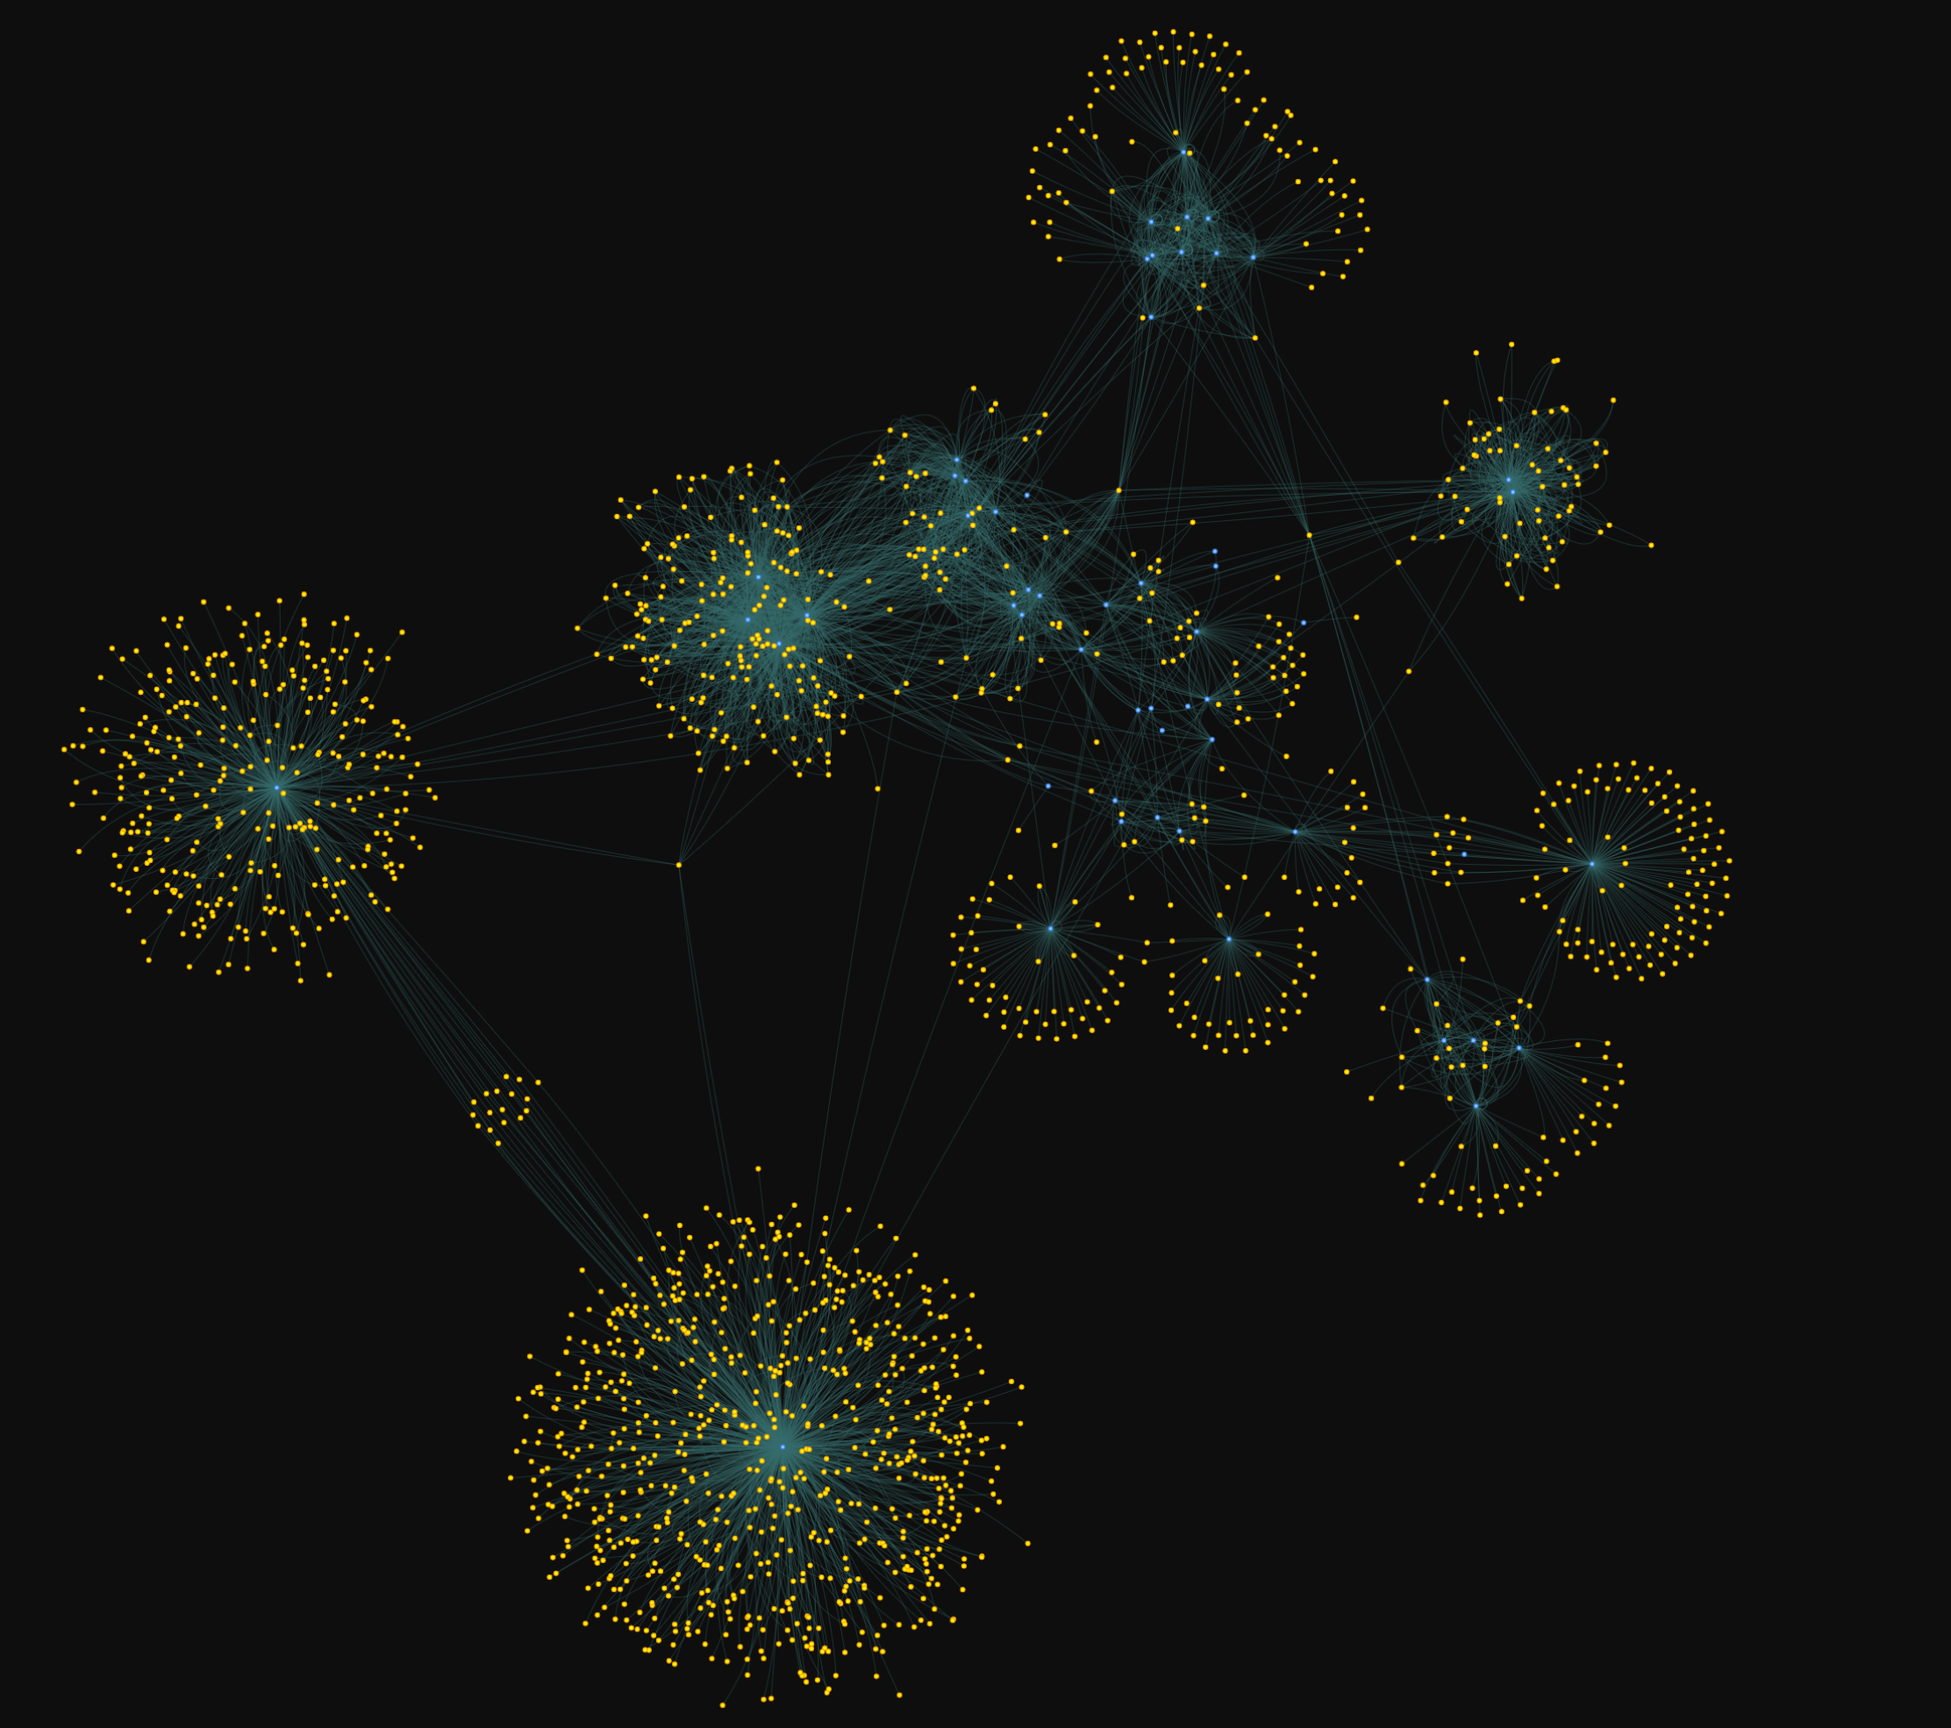
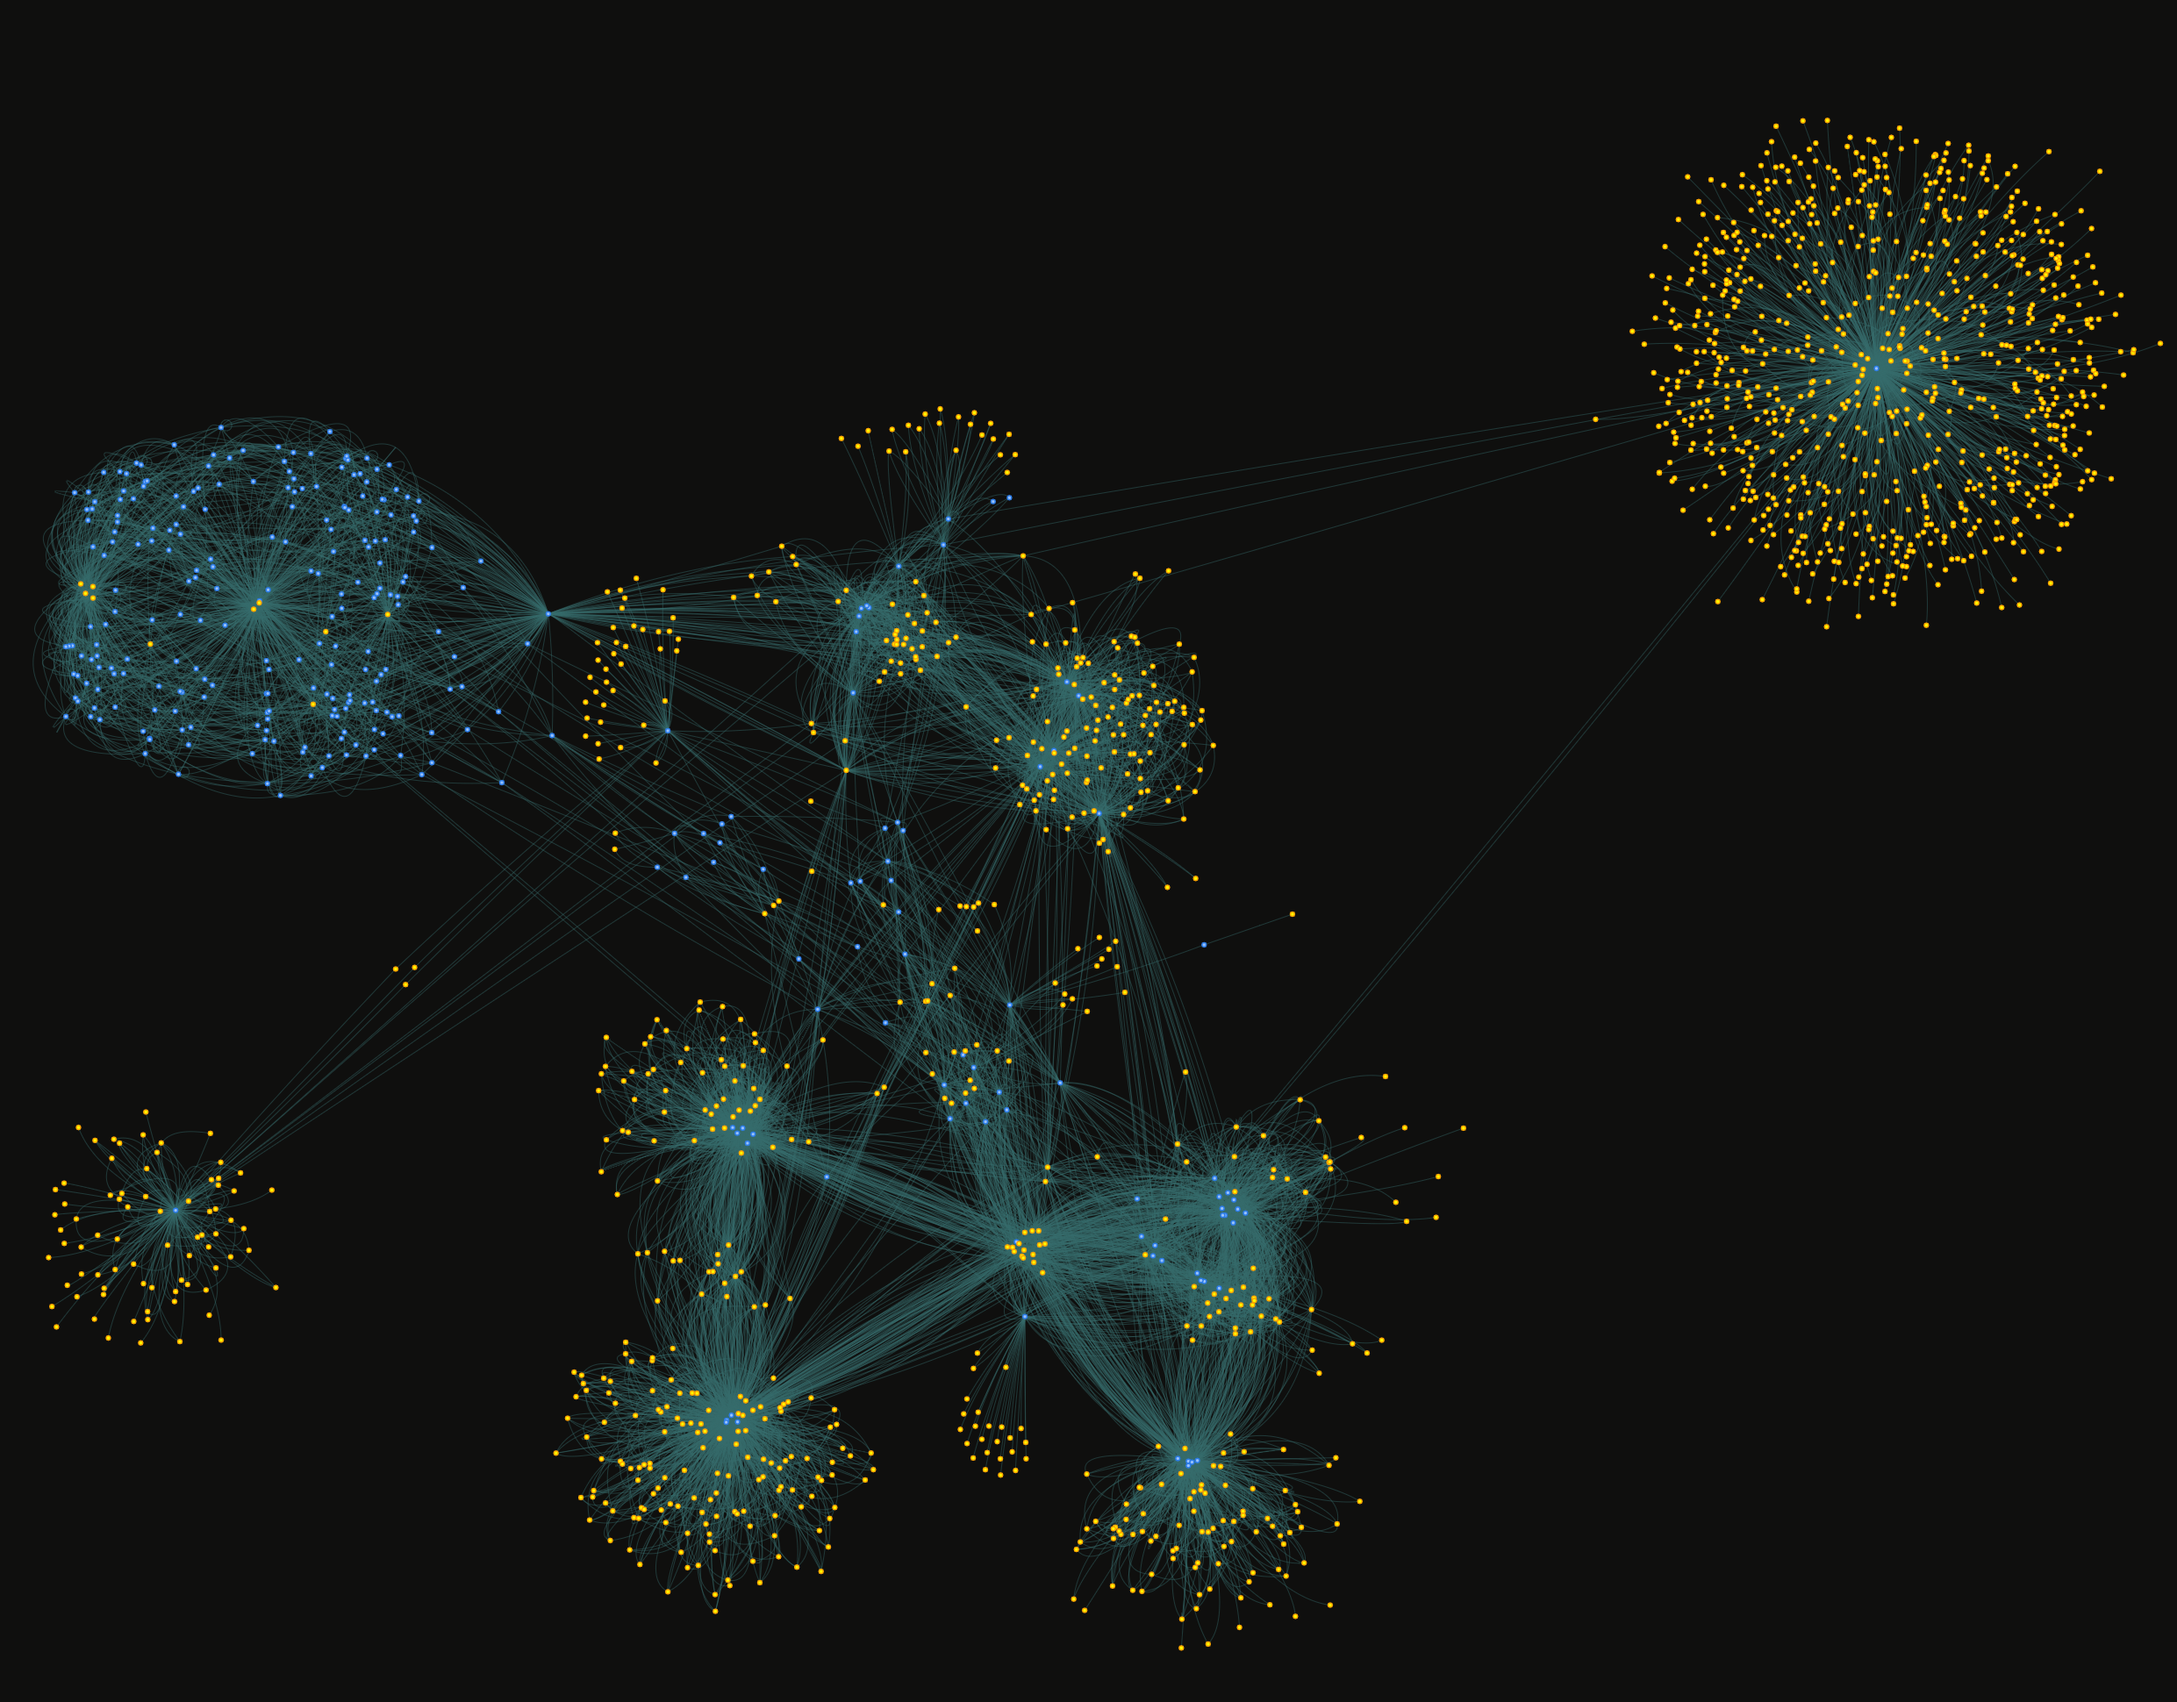
updated style

diff --git a/templates/graph.html b/templates/graph.html
@@ -1,56 +1,167 @@
 <html>
 <script src="https://cdnjs.cloudflare.com/ajax/libs/vis/4.21.0/vis.min.js"></script>
     <link rel="stylesheet" type="text/css" href="https://cdnjs.cloudflare.com/ajax/libs/vis/4.21.0/vis.min.css">
-    <div id="mynetwork" style = "background-color: rgb(39, 39, 39);"></div>
-        <script type="text/javascript">
-            var color = 'gray';
+
+    <style type="text/css">
+
+        #mynetwork {
+            width: 100%;
+            height: 100%;
+            background-color: black;
+            border: 1px solid lightgray;
+            position: relative;
+            float: left;
+        }
+
         
-            var nodes = {{ nodes | safe }} ;
+        #loadingBar {
+            position:absolute;
+            top:0px;
+            left:0px;
+            width: 100%;
+            height: 100%;
+            background-color:rgba(200,200,200,0.8);
+            -webkit-transition: all 0.5s ease;
+            -moz-transition: all 0.5s ease;
+            -ms-transition: all 0.5s ease;
+            -o-transition: all 0.5s ease;
+            transition: all 0.5s ease;
+            opacity:1;
+        }
+
+        #bar {
+            position:absolute;
+            top:0px;
+            left:0px;
+            width:20px;
+            height:20px;
+            margin:auto auto auto auto;
+            border-radius:11px;
+            border:2px solid rgba(30,30,30,0.05);
+            background: rgb(0, 173, 246); /* Old browsers */
+            box-shadow: 2px 0px 4px rgba(0,0,0,0.4);
+        }
+
+        #border {
+            position:absolute;
+            top:10px;
+            left:10px;
+            width:500px;
+            height:23px;
+            margin:auto auto auto auto;
+            box-shadow: 0px 0px 4px rgba(0,0,0,0.2);
+            border-radius:10px;
+        }
+
+        #text {
+            position:absolute;
+            top:8px;
+            left:530px;
+            width:30px;
+            height:50px;
+            margin:auto auto auto auto;
+            font-size:22px;
+            color: #000000;
+        }
+
+        div.outerBorder {
+            position:relative;
+            top:400px;
+            width:600px;
+            height:44px;
+            margin:auto auto auto auto;
+            border:8px solid rgba(0,0,0,0.1);
+            background: rgb(252,252,252); /* Old browsers */
+            background: -moz-linear-gradient(top,  rgba(252,252,252,1) 0%, rgba(237,237,237,1) 100%); /* FF3.6+ */
+            background: -webkit-gradient(linear, left top, left bottom, color-stop(0%,rgba(252,252,252,1)), color-stop(100%,rgba(237,237,237,1))); /* Chrome,Safari4+ */
+            background: -webkit-linear-gradient(top,  rgba(252,252,252,1) 0%,rgba(237,237,237,1) 100%); /* Chrome10+,Safari5.1+ */
+            background: -o-linear-gradient(top,  rgba(252,252,252,1) 0%,rgba(237,237,237,1) 100%); /* Opera 11.10+ */
+            background: -ms-linear-gradient(top,  rgba(252,252,252,1) 0%,rgba(237,237,237,1) 100%); /* IE10+ */
+            background: linear-gradient(to bottom,  rgba(252,252,252,1) 0%,rgba(237,237,237,1) 100%); /* W3C */
+            filter: progid:DXImageTransform.Microsoft.gradient( startColorstr='#fcfcfc', endColorstr='#ededed',GradientType=0 ); /* IE6-9 */
+            border-radius:72px;
+            box-shadow: 0px 0px 10px rgba(0,0,0,0.2);
+        }
+        
+
+        
+
+        
+</style>
+    <div id="mynetwork" style = "background-color: #0f0f0e;"></div>
+    <div id="loadingBar">
+        <div class="outerBorder">
+            <div id="text">0%</div>
+            <div id="border">
+                <div id="bar"></div>
+            </div>
+        </div>
+    </div>
+        <script type="text/javascript">
+            function draw() {
+                var color = 'gray';
             
-            var edges = {{ edges | safe }} ;
-            console.log(nodes, edges);
-            // create a network
-            var container = document.getElementById('mynetwork');
-            var data = {
-                nodes: nodes,
-                edges: edges
-            };
-            var options = {
-                autoResize: true,
-                layout: {
-                    improvedLayout:true,
-                    randomSeed: 10,
-                    
-                },
-                height: '100%',
-                width: '100%',
-                nodes: {
-                    shape: 'dot',
-                    size: 8,
-                    font: {
-                        size: 5,
-                        color: '#ffffff'
+                var nodes = {{ nodes | safe }} ;
+                
+                var edges = {{ edges | safe }} ;
+                // create a network
+                var container = document.getElementById('mynetwork');
+                var data = {
+                    nodes: nodes,
+                    edges: edges
+                };
+                var options = {
+                    autoResize: true,
+                    layout: {
+                        improvedLayout:false,
                     },
-                    borderWidth: 1
-                },
-                edges: {
-                    width: 1,
-                    color: {
-                    color:'#356b6b',
-                    highlight:'#4286f4',
-                    hover: '#41f4f4',
-                    inherit: 'from',
-                    opacity:1.0
+                    height: '100%',
+                    width: '100%',
+                    nodes: {
+                        shape: 'dot',
+                        size: 8,
+                        font: {
+                            size: 5,
+                            color: '#ffffff'
+                        },
+                        borderWidth: 1
                     },
-                },
-                interaction: {
-                    hoverConnectedEdges: true,
-                    tooltipDelay: 200
-                }
-            };
+                    edges: {
+                        width: 1,
+                        color: {
+                        color:'#356b6b',
+                        highlight:'#4286f4',
+                        hover: '#41f4f4',
+                        inherit: 'from',
+                        opacity:1.0
+                        },
+                    },
+                    interaction: {
+                        hoverConnectedEdges: true,
+                        tooltipDelay: 200
+                    }
+                };
             network = new vis.Network(container, data, options);
-            network.on("stabilizationIterationsDone", function () {
+            network.on("stabilizationProgress", function(params) {
+                document.getElementById('loadingBar').removeAttribute("style");
+                var maxWidth = 496;
+                var minWidth = 20;
+                var widthFactor = params.iterations/params.total;
+                var width = Math.max(minWidth,maxWidth * widthFactor);
+
+                document.getElementById('bar').style.width = width + 'px';
+                document.getElementById('text').innerHTML = Math.round(widthFactor*100) + '%';
+            });
+            network.once("stabilizationIterationsDone", function() {
+                document.getElementById('text').innerHTML = '100%';
+                document.getElementById('bar').style.width = '496px';
+                document.getElementById('loadingBar').style.opacity = 0;
+                // really clean the dom element
+                setTimeout(function () {document.getElementById('loadingBar').style.display = 'none';}, 500);
                 network.setOptions( { physics: false } );
             });
+            return network;
+        };
+        draw();
         </script>
 </html>

diff --git a/x.py b/x.py
@@ -1,6 +1,6 @@
 import Star
 
 crawler = Star.Crawler()
-crawler.run("https://www.patricematz.de/", 5000)
+crawler.run("https://www.google.de/", 5000)
 print(crawler.getNodesEdges())
 crawler.draw()
